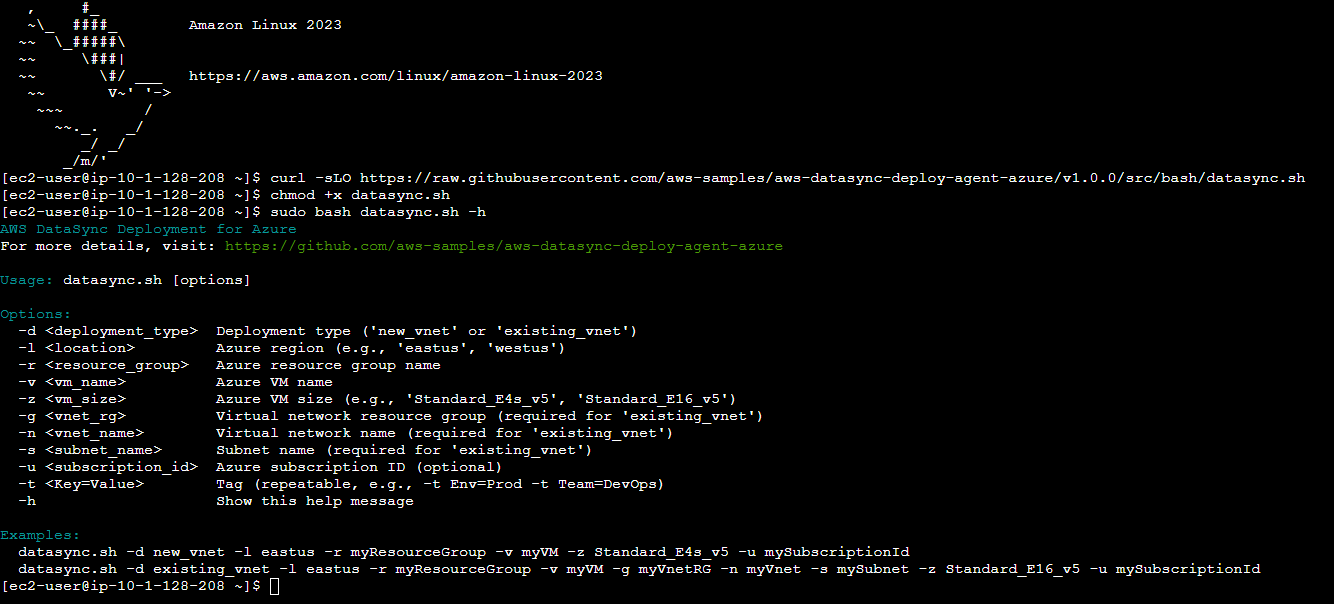
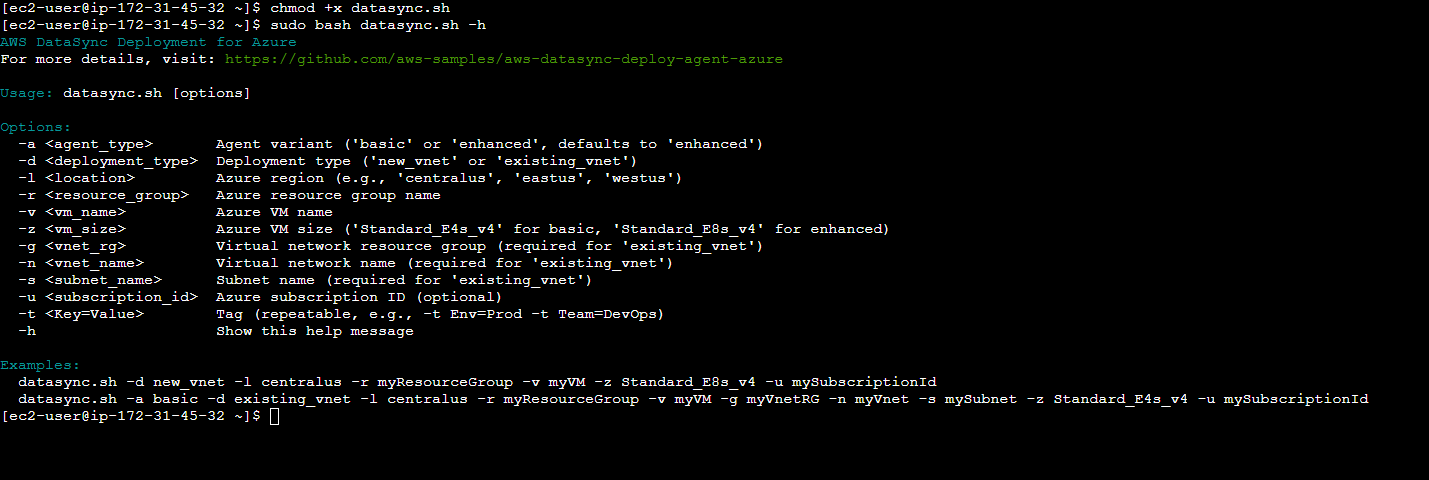
Add Enhanced DataSync agent option to deployment script (#9)

Changed region(s): [[0.0, 0.1875, 0.9835, 1.0], [0.0, 0.0, 0.5225, 0.1562]]

diff --git a/README.md b/README.md
@@ -25,7 +25,7 @@ The deployment runs from an Amazon Linux 2023 EC2 instance and produces a DataSy
 flowchart LR
     subgraph AWS["AWS"]
         EC2["Amazon Linux 2023<br/>EC2 instance"]
-        CF["DataSync agent zip<br/>(Hyper-V VHDX)"]
+        CF["DataSync agent<br/>(ZIP or VHDX)"]
         CF -->|"curl download"| EC2
         EC2 -->|"qemu-img: VHDX to VHD"| VHD["Fixed VHD"]
     end
@@ -37,6 +37,17 @@ flowchart LR
     end
     VHD -->|"AzCopy to time-limited SAS"| DISK
 ```
+
+## Agent Types
+
+AWS DataSync provides two agent variants for Azure deployment:
+
+- **Basic Agent**: Distributed as a ZIP archive containing a VHDX disk image.
+- **Enhanced Agent** (default): Distributed as a direct VHDX download. The Enhanced agent allows for faster data transfer.
+
+The Enhanced agent runs on the deployed VM and supports traffic shaping over a private network.
+
+You can specify the agent type using the `-a` flag. If not specified, the script defaults to the Enhanced agent.
 
 ## Deployment Steps
 
@@ -75,12 +86,13 @@ Before running the deployment script, please ensure that you have the following 
 
 **Mandatory Parameters:**
 - **Deployment Type (-d)**: Choose whether you want to use a ('new_vnet' or 'existing_vnet')
-- **Location (-l)**: Azure region where you want to deploy your resources (e.g., 'eastus', 'westus')
+- **Location (-l)**: Azure region where you want to deploy your resources (e.g., 'eastus', 'westus', 'centralus')
 - **Resource Group (-r)**: Azure Resource Group name (e.g. aws-datasync-rg)
 - **Virtual Machine Name (-v)**: The  name for the Azure Virtual Machine that will host the AWS DataSync Agent (e.g. aws-datasync-vm)
-- **Virtual Machine Size (-z)**: Azure VM size (e.g., 'Standard_E4s_v5', 'Standard_E16_v5')
+- **Virtual Machine Size (-z)**: Azure VM size — 'Standard_E4s_v4' (4 vCPU) for the Basic agent, 'Standard_E8s_v4' (8 vCPU) for the Enhanced agent
 
 **Optional Parameters:**
+- **Agent Type (-a)**: DataSync agent variant ('basic' or 'enhanced', defaults to 'enhanced'). See [Agent Types](#agent-types) for details.
 - **Subscription ID (-u)**: Azure subscription ID (optional)
 - **Tag (-t)**: Azure resource tag as `Key=Value`, applied to the created VM. Repeatable — pass `-t` multiple times to add several tags (e.g. `-t Env=Prod -t Team=DevOps`).
 
@@ -98,41 +110,49 @@ When selecting the Azure Virtual Machine for the Datasync Agent, we recommend th
 > size that supports Gen1 disks. Newer size families are **Gen2-only** (e.g. the `v7` E/D-series)
 > or **confidential-compute only** (e.g. `EC*`/`DC*` sizes, which require a ConfidentialVM/Gen2
 > image) and will fail with a `cannot boot Hypervisor Generation '1'` or `security type` error.
-> Gen1-capable families such as `Esv3`/`Esv4`/`Esv5` (e.g. `Standard_E4s_v5`) work. If your chosen
-> size reports **capacity restrictions** (`SkuNotAvailable`) in your region, try another Availability
-> Zone (`az vm create --zone 1|2|3`), or deploy to a different region (`-l eastus2`, `-l westus2`).
-> To list Gen1-capable, unrestricted 4-vCPU sizes in a region:
+> Gen1-capable families such as `Esv3`/`Esv4`/`Esv5` (e.g. `Standard_E4s_v4`, `Standard_E8s_v4`)
+> work. If your chosen size reports **capacity restrictions** (`SkuNotAvailable`) in your region,
+> try another Availability Zone (`az vm create --zone 1|2|3`), or deploy to a different region
+> (`-l centralus`, `-l westus2`).
+> To list Gen1-capable, unrestricted sizes in a region, set `value` to the vCPU count for your
+> agent type — `'4'` for the Basic agent, `'8'` for the Enhanced agent:
 > ```bash
 > az vm list-skus --location <region> --resource-type virtualMachines --all \
->   --query "[?length(restrictions)==\`0\` && capabilities[?name=='HyperVGenerations' && contains(value,'V1')] && capabilities[?name=='vCPUs' && value=='4']].name" -o tsv
+>   --query "[?length(restrictions)==\`0\` && capabilities[?name=='HyperVGenerations' && contains(value,'V1')] && capabilities[?name=='vCPUs' && value=='8']].name" -o tsv
 > ```
 > **Shell compatibility:**
 > - **Bash** (default, recommended): uses `\`` to escape backticks in the JMESPath query
 > - **PowerShell**: replace `\`` with ` `` ` (double backtick). Example:
 > ```powershell
-> az vm list-skus --location <region> --resource-type virtualMachines --all --query "[?length(restrictions)==``0`` && capabilities[?name=='HyperVGenerations' && contains(value,'V1')] && capabilities[?name=='vCPUs' && value=='4']].name" -o tsv
+> az vm list-skus --location <region> --resource-type virtualMachines --all --query "[?length(restrictions)==``0`` && capabilities[?name=='HyperVGenerations' && contains(value,'V1')] && capabilities[?name=='vCPUs' && value=='8']].name" -o tsv
 > ```
 ---
 ### Download the Deployment Script
 For a reproducible deployment, download the script from a **release tag** (not `main`, which
-changes over time). The current release is `v1.0.0`:
+changes over time). The current release is `v1.1.0`:
 
 ```
-curl -sLO https://raw.githubusercontent.com/aws-samples/aws-datasync-deploy-agent-azure/v1.0.0/src/bash/datasync.sh
+curl -sLO https://raw.githubusercontent.com/aws-samples/aws-datasync-deploy-agent-azure/v1.1.0/src/bash/datasync.sh
 ```
+
+> **Note:** Version `v1.1.0` adds agent selection via the `-a` flag **and changes the default agent
+> from Basic to Enhanced.** A `v1.0.0` command line re-run unchanged on `v1.1.0` will therefore
+> deploy a different agent image — pass `-a basic` to keep the previous behaviour, or pin to
+> `v1.0.0` for the original basic agent-only version.
 
 **Verify the download before running it.** Because the script is executed with `sudo` (root),
 confirm its integrity against the published SHA-256 checksum for that release before making it
 executable:
 
 ```
-echo "b98ac5d4639b4a09e74138ec9e1411ad6c61b3ef9882be3bd12ce0c69d9e1c73  datasync.sh" | sha256sum -c -
+echo "b902f7b721f5f4519f3218c651045ea505ad021efe0c535906b37696d8a4749d  datasync.sh" | sha256sum -c -
 ```
 
 The command prints `datasync.sh: OK` on success and fails loudly on any mismatch.
 
 | Release tag | SHA-256 of `src/bash/datasync.sh` |
 |-------------|-----------------------------------|
[2 lines of base64/hex data omitted]
 
 > **Maintainers:** cut a new release tag whenever `datasync.sh` changes, regenerate this value
@@ -155,20 +175,26 @@ sudo bash datasync.sh -h
 Once you have your parameters ready, you can initiate the deployment script using the following commands:
 
 ```
-sudo bash datasync.sh -d new_vnet -l eastus -r testResourceGroup -v testVM -z Standard_E4s_v5 -u xxxxxxxx-xxxx-xxxx-xxxx-xxxxxxxxxxxx
+# Default (Enhanced agent)
+sudo bash datasync.sh -d new_vnet -l centralus -r testResourceGroup -v testVM -z Standard_E8s_v4 -u xxxxxxxx-xxxx-xxxx-xxxx-xxxxxxxxxxxx
 ```
 
 Replace `xxxxxxxx-xxxx-xxxx-xxxx-xxxxxxxxxxxx` with your actual Azure subscription ID.
 
-For existing_vnet deployment:
+Explicit Enhanced agent:
 ```
-sudo bash datasync.sh -d existing_vnet -l eastus -r aws-datasync-rg -v datasync-vm -g existing-vnet-rg -n existing-vnet -s existing-subnet -z Standard_E16_v5 -u mySubscriptionId
+sudo bash datasync.sh -a enhanced -d new_vnet -l centralus -r testResourceGroup -v testVM -z Standard_E8s_v4 -u mySubscriptionId
 ```
 Replace `mySubscriptionId` with your actual Azure subscription ID.
 
+Using Basic Agent:
+```
+sudo bash datasync.sh -a basic -d existing_vnet -l centralus -r aws-datasync-rg -v datasync-vm -g existing-vnet-rg -n existing-vnet -s existing-subnet -z Standard_E4s_v4 -u mySubscriptionId
+```
+
 To apply Azure resource tags to the created VM, add one or more `-t Key=Value` flags:
 ```
-sudo bash datasync.sh -d new_vnet -l eastus -r testResourceGroup -v testVM -z Standard_E4s_v5 -u mySubscriptionId -t Env=Prod -t Team=DevOps
+sudo bash datasync.sh -d new_vnet -l centralus -r testResourceGroup -v testVM -z Standard_E8s_v4 -u mySubscriptionId -t Env=Prod -t Team=DevOps
 ```
 
 ### Subscription ID Validation
